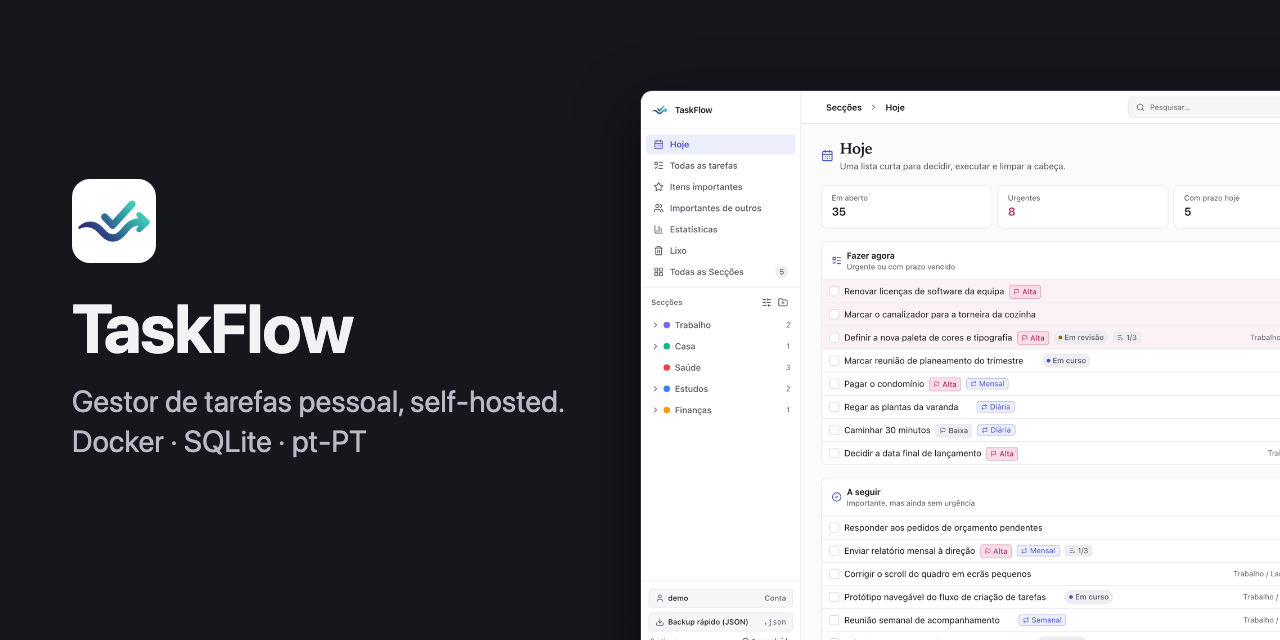
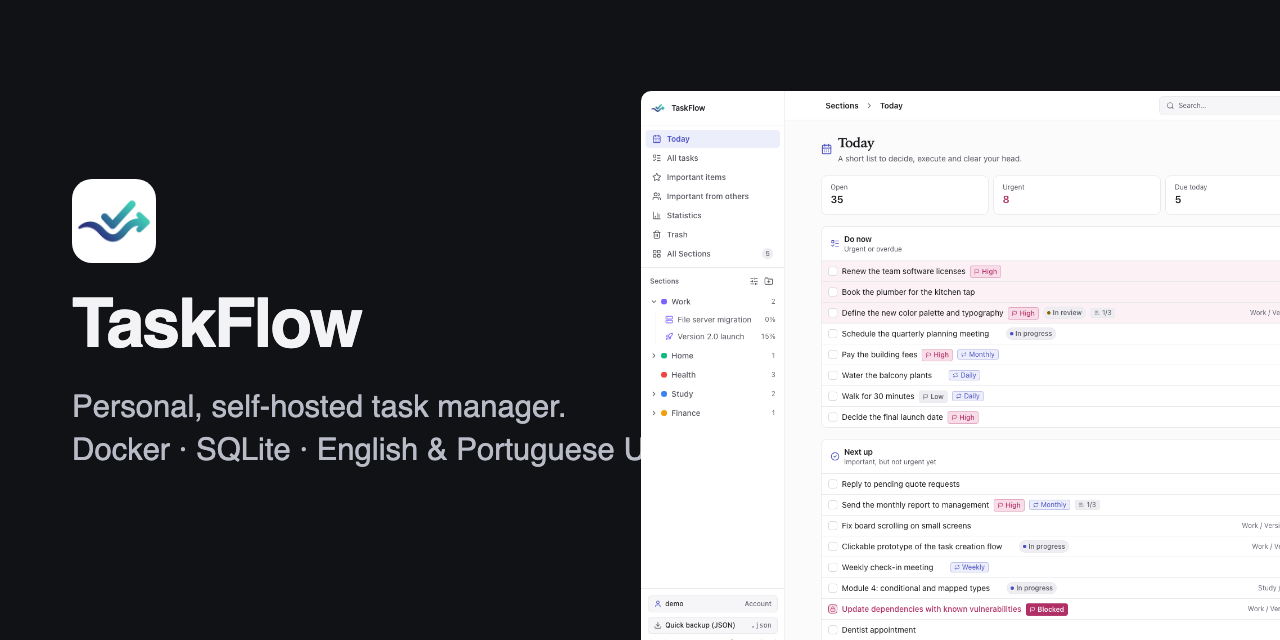
docs: README, licença e templates em inglês; capturas em inglês

diff --git a/README.md b/README.md
@@ -1,73 +1,41 @@
 # TaskFlow
 
-> **English:** a personal, self-hosted task manager, originally built in Portuguese for my own needs and **fully translated to English so anyone can use it**. Sections › Projects › Subprojects, due dates, recurrence, full-text search, 30-day trash, ntfy reminders and a quick-capture API. Single Docker container (SQLite, `linux/amd64` and `linux/arm64`). **Closed source, built entirely with AI by an inexperienced developer looking for feedback;** free for personal use. See the [English section](#english) below.
+A personal, self-hosted task manager: **Sections › Projects › Subprojects**, due dates, recurrence, full-text search, a 30-day trash, reminders and a quick-capture API. It runs as a single Docker container.
 
-## English
+I'm Portuguese and I originally built TaskFlow for my own needs, in Portuguese. I then translated the whole interface to English so that **anyone can use it**. The app is available in English and Portuguese (pt-PT); pick the language in *Settings → Preferences → Language*.
 
-**TaskFlow** is a personal, self-hosted task manager: Sections › Projects › Subprojects, due dates, recurrence, full-text search, a 30-day trash, ntfy reminders and a quick-capture API.
+![TaskFlow tour: Today, list, board, calendar and Gantt, in light and dark themes](docs/img/tour.gif)
 
-I originally built it **in Portuguese, for my own needs**. I then **translated the whole interface to English so anyone can use it**. Switch language in *Settings → Preferences → Language*. Quick capture, reminders and the morning digest understand both languages.
+## Before you install
 
-- **Closed source.** I'm an inexperienced developer and the whole app was built with AI. I'm not publishing the code for now; I'm looking for feedback. It is free for personal use (see [License](#licença)).
-- **Single-user.** No teams, sharing or permissions. It runs over **plain HTTP**: use it on your home network or behind your own HTTPS. Don't expose it directly to the internet.
-- **No online demo.** See the [screenshots](#capturas) (sample data).
+- **The source code is closed.** I'm an inexperienced developer and the whole app was built with AI. For now I prefer not to publish the code: what I'm after is feedback from people who use it. The app is free for personal use (see [License](#license)).
+- **It's a personal, single-user app.** No teams, sharing or permissions. It runs over **plain HTTP**, so use it at home, on your local network, or behind your own HTTPS.
+- **It installs in two minutes**, with no configuration: one command or a `docker-compose.yml` (below).
+- **There is no online demo.** The [screenshots](#screenshots) show the app with sample data.
+- **Please give feedback!** Any suggestion or bug report helps, see [Feedback](#feedback).
 
-### Install
+## Screenshots
 
-Requires [Docker](https://docs.docker.com/get-docker/). The image is multi-arch (`amd64` and `arm64`: PCs, Raspberry Pi, Apple Silicon).
-
-```bash
-docker run -d --name taskflow -p 3000:3000 \
-  -v taskflow-data:/app/data --restart unless-stopped \
-  ghcr.io/rj-pess/taskflow:latest
-```
-
-Open <http://localhost:3000> and create your account (the first account is created on first visit). A `docker-compose.yml` is shown in [Com Docker Compose](#com-docker-compose).
-
-**Update:** `docker pull ghcr.io/rj-pess/taskflow:latest`, `docker rm -f taskflow`, then run the install command again. Your data lives in the `taskflow-data` volume and survives updates.
-
-**Backup:** the app makes a daily backup (last 14) in `data/backups/`. Copy everything with `docker cp taskflow:/app/data ./taskflow-backup`.
-
-### Feedback
-
-Ideas: [open a suggestion](../../issues/new?template=sugestao.yml). Bugs: [report a bug](../../issues/new?template=bug.yml). Issues in English are welcome. It's a personal project, so I reply when I can.
-
-Gestor de tarefas pessoal, em português **e inglês** (escolhe em Definições → Preferências → Idioma): **Secções › Projetos › Subprojetos**, prazos, recorrência, pesquisa, lixo com 30 dias, lembretes e captura rápida por API.
-
-![Tour pela TaskFlow: Hoje, lista, board, calendário e Gantt, em tema claro e escuro](docs/img/tour.gif)
-
-## Antes de instalares
-
-- **O código é fechado.** Sou uma pessoa inexperiente e esta aplicação foi feita **inteiramente com IA**. Por agora prefiro não a publicar: o que procuro é feedback de quem a usa. A app é grátis para uso pessoal (ver [Licença](#licença)).
-- **É uma app pessoal, para uma só pessoa.** Não tem equipas, partilha nem permissões, e corre em **HTTP** (sem HTTPS). Usa-a em casa, na rede local ou atrás do teu próprio HTTPS.
-- **Instala-se em dois minutos**, sem configuração: um comando ou um `docker-compose.yml` (abaixo).
-- **Sem demo online.** As [capturas](#capturas) mostram a app com dados de exemplo.
-- **Dá feedback!** Qualquer sugestão ou bug ajuda, ver [Sugestões e problemas](#sugestões-e-problemas).
-
-## Capturas
-
-| Hoje | Board (escuro) | Gantt |
+| Today | Board (dark) | Gantt |
 | --- | --- | --- |
-| ![Hoje, tema claro](docs/img/desktop-hoje-claro.png) | ![Board de projeto, tema escuro](docs/img/desktop-board-escuro.png) | ![Gantt de projeto](docs/img/desktop-gantt-claro.png) |
+| ![Today, light theme](docs/img/desktop-today-light.png) | ![Project board, dark theme](docs/img/desktop-board-dark.png) | ![Project Gantt chart](docs/img/desktop-gantt-light.png) |
 
-No telemóvel (barra inferior, folhas e gestos com equivalente por toque):
+On mobile (bottom bar, sheets, and gestures that all have a tap equivalent):
 
 <p>
-  <img src="docs/img/iphone-hoje-claro.png" alt="Hoje no iPhone" width="260">
-  <img src="docs/img/iphone-board-escuro.png" alt="Board no iPhone, tema escuro" width="260">
+  <img src="docs/img/iphone-today-light.png" alt="Today on iPhone" width="260">
+  <img src="docs/img/iphone-board-dark.png" alt="Board on iPhone, dark theme" width="260">
 </p>
 
-## Idioma / Language
+## Language
 
-A interface está em **português (Portugal)** e **inglês**. A escolha faz-se em *Definições → Preferências → Idioma* e vale em todos os dispositivos. Os lembretes e o resumo da manhã seguem o idioma escolhido, e a captura rápida (por texto ou API) entende datas e recorrência nos dois idiomas («amanhã», «tomorrow», «todas as sextas», «every friday»…).
+The interface comes in **English** and **Portuguese (Portugal)**. Choose it in *Settings → Preferences → Language*; the choice applies on every device. Reminders and the morning digest follow it, and quick capture (by text or API) understands dates and recurrence in both languages ("tomorrow", "every friday"…).
 
-The interface comes in **English** and **Portuguese (Portugal)**. Pick it in *Settings → Preferences → Language*; it applies on every device. Reminders and the morning digest follow it, and quick capture understands dates and recurrence in both languages.
+![Settings → Preferences with the language selector](docs/img/settings-language-en.png)
 
-![Settings → Preferences with the language selector, in English](docs/img/settings-language-en.png)
+## Install
 
-## Instalar
-
-Precisas de [Docker](https://docs.docker.com/get-docker/).
+You need [Docker](https://docs.docker.com/get-docker/).
 
 ```bash
 docker run -d --name taskflow -p 3000:3000 \
@@ -75,11 +43,11 @@ docker run -d --name taskflow -p 3000:3000 \
   ghcr.io/rj-pess/taskflow:latest
 ```
 
-Abre <http://localhost:3000> e cria a tua conta (a primeira conta é criada no primeiro acesso).
+Open <http://localhost:3000> and create your account (the first account is created on first visit).
 
-> A imagem é multi-arquitetura (**amd64** e **arm64**): funciona em PCs, Raspberry Pi e Macs com Apple Silicon, sem opções extra.
+> The image is multi-architecture (**amd64** and **arm64**): it runs on PCs, Raspberry Pi and Apple Silicon Macs with no extra options.
 
-### Com Docker Compose
+### With Docker Compose
 
 ```yaml
 services:
@@ -92,36 +60,36 @@ volumes:
   taskflow-data:
 ```
 
-## Atualizar
+## Update
 
 ```bash
 docker pull ghcr.io/rj-pess/taskflow:latest
 docker rm -f taskflow
-# volta a correr o comando de instalação
+# run the install command again
 ```
 
-Os dados ficam no volume `taskflow-data` e sobrevivem à atualização.
+Your data lives in the `taskflow-data` volume and survives updates.
 
 ## Backup
 
-A app faz um backup diário (últimos 14) em `data/backups/`. Para copiares tudo para a tua máquina:
+The app makes a daily backup (the last 14 are kept) in `data/backups/`. To copy everything to your machine:
 
 ```bash
 docker cp taskflow:/app/data ./taskflow-backup
 ```
 
-## Segurança
+## Security
 
-- A app corre em **HTTP**. Usa-a em rede local ou atrás do teu próprio HTTPS. **Não a expões diretamente à internet.**
-- Cada instalação é tua: os teus dados ficam só na tua máquina.
+- The app runs over **HTTP**. Use it on a local network or behind your own HTTPS. **Do not expose it directly to the internet.**
+- Every installation is yours: your data stays on your own machine.
 
-## Sugestões e problemas
+## Feedback
 
-- Ideia nova ou melhoria: [abrir sugestão](../../issues/new?template=sugestao.yml)
-- Algo não funciona: [reportar bug](../../issues/new?template=bug.yml)
+- A new idea or improvement: [open a suggestion](../../issues/new?template=suggestion.yml)
+- Something doesn't work: [report a bug](../../issues/new?template=bug.yml)
 
-É um projeto pessoal: respondo quando puder, sem prazos.
+This is a personal project: I reply when I can, with no deadlines.
 
-## Licença
+## License
 
-Uso pessoal e gratuito. Ver [LICENSE](LICENSE).
+Free for personal use. See [LICENSE](LICENSE).
